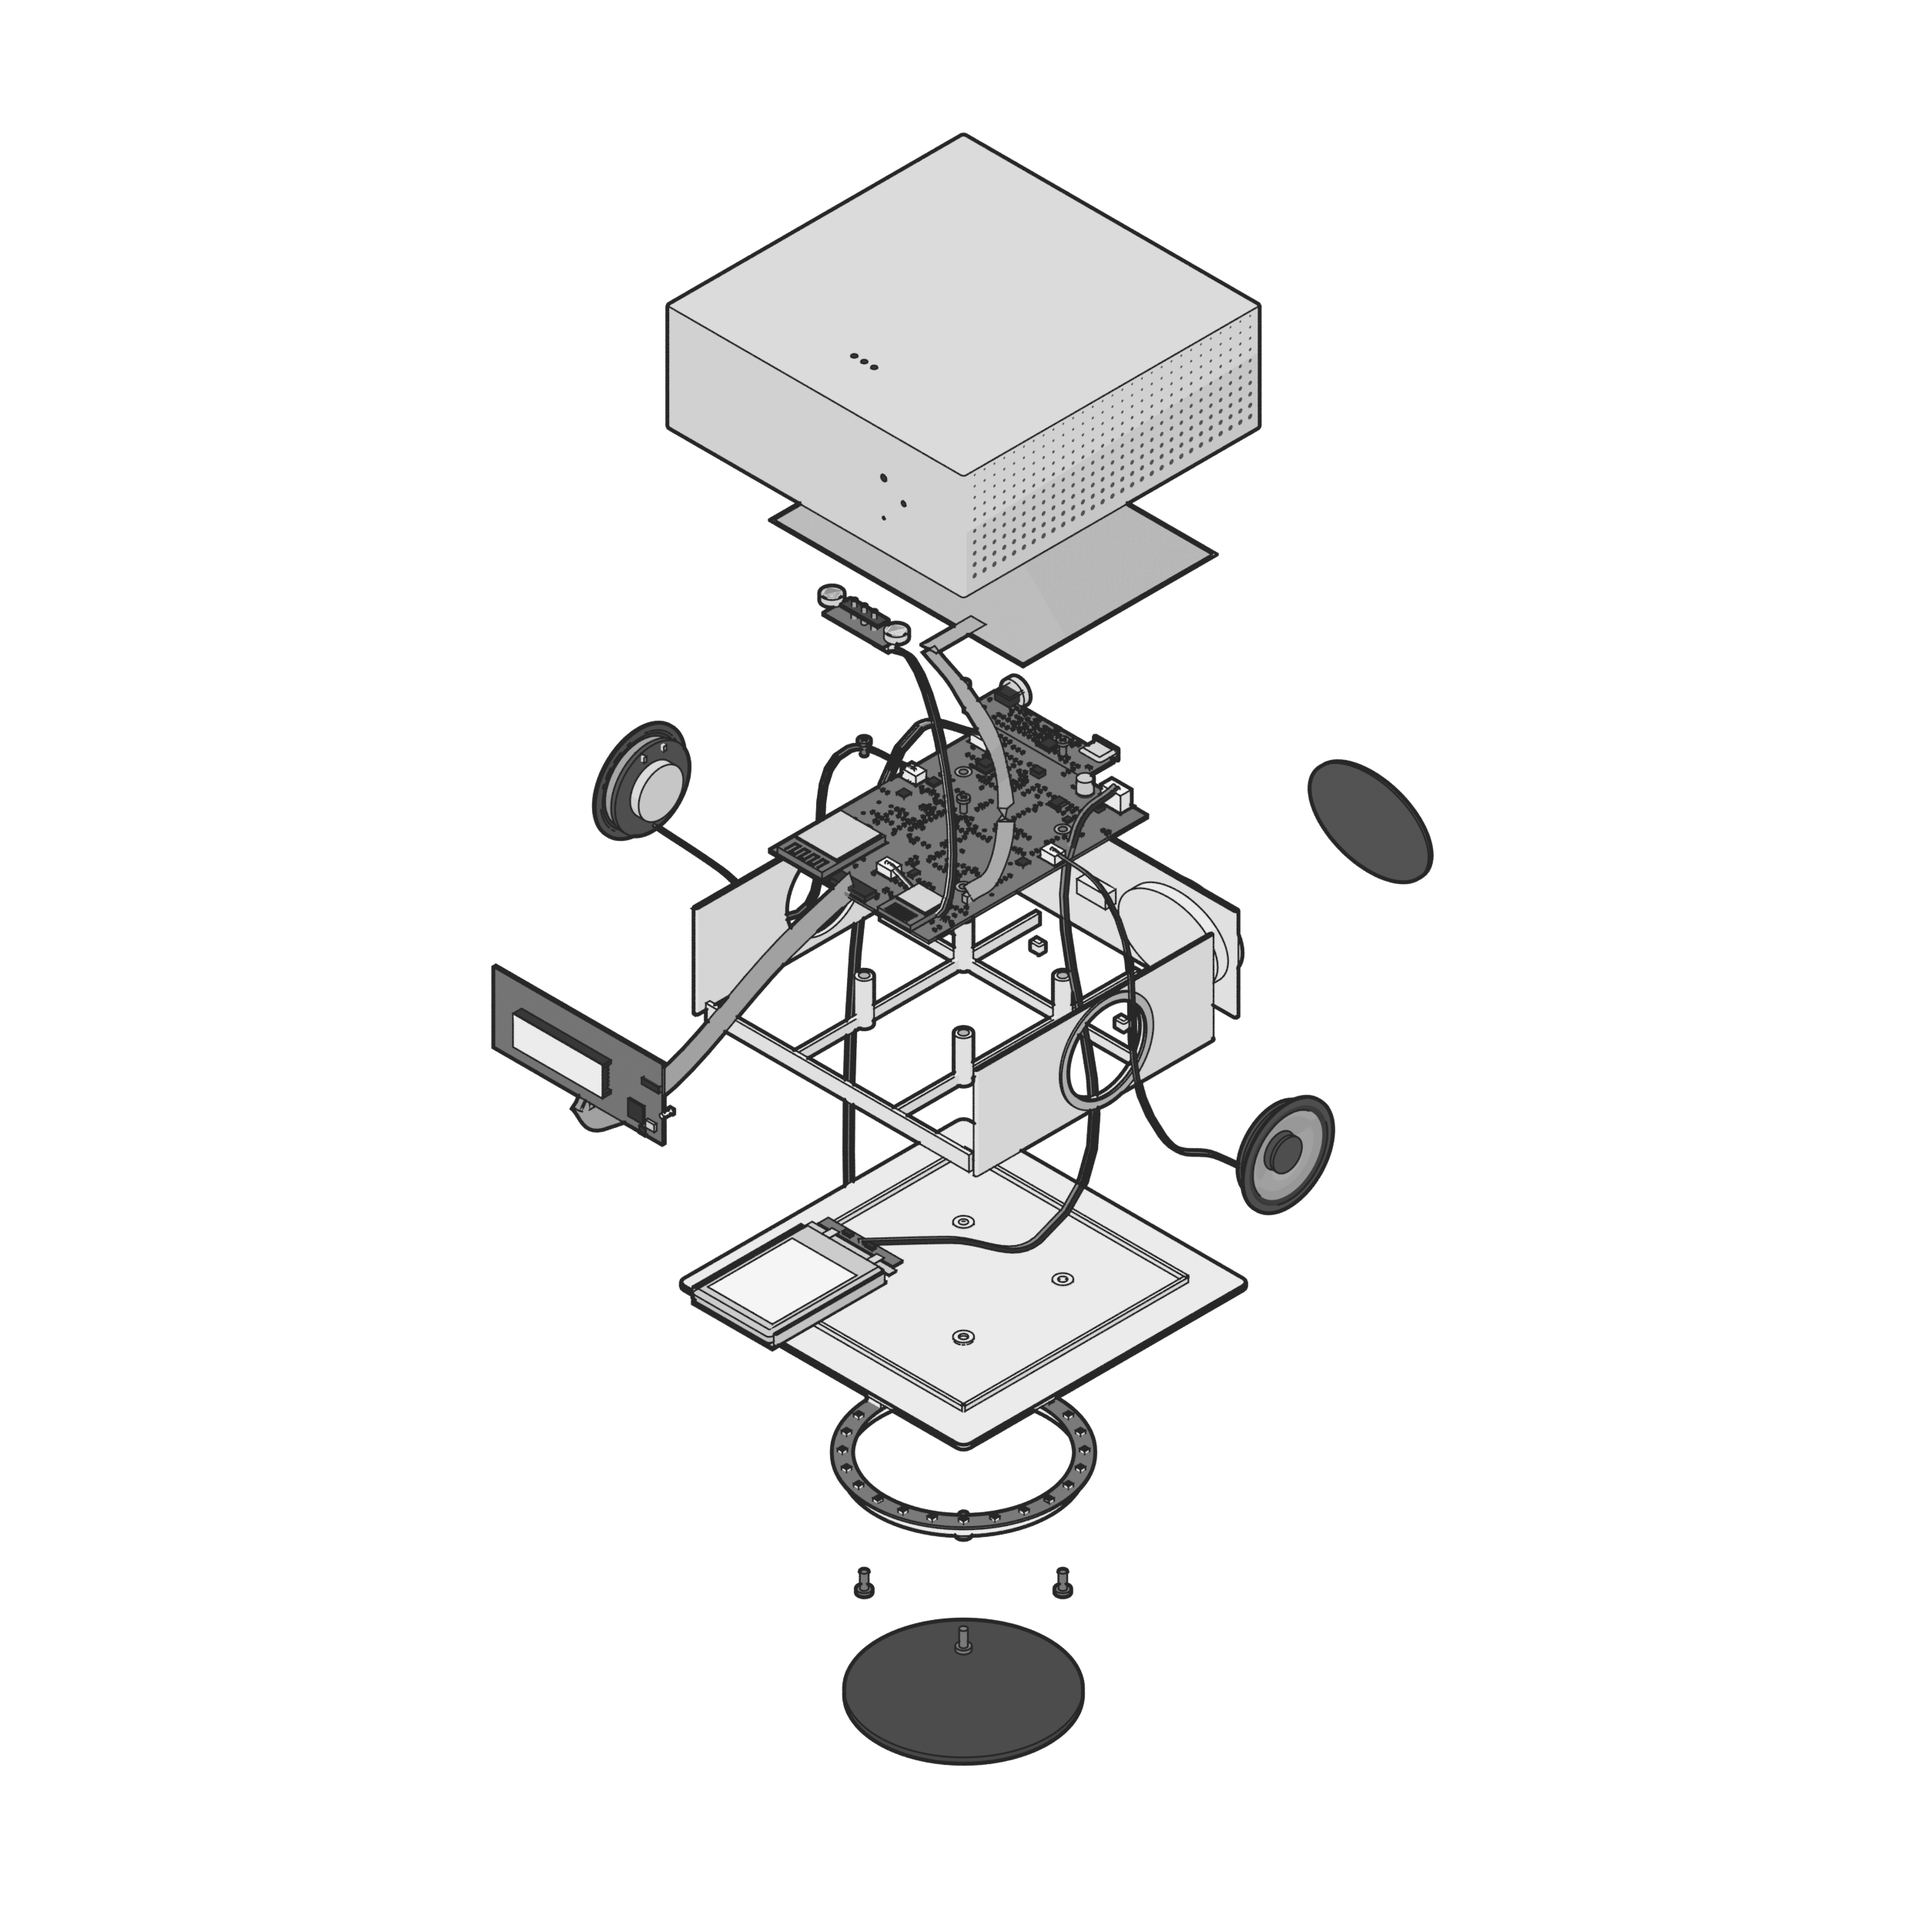
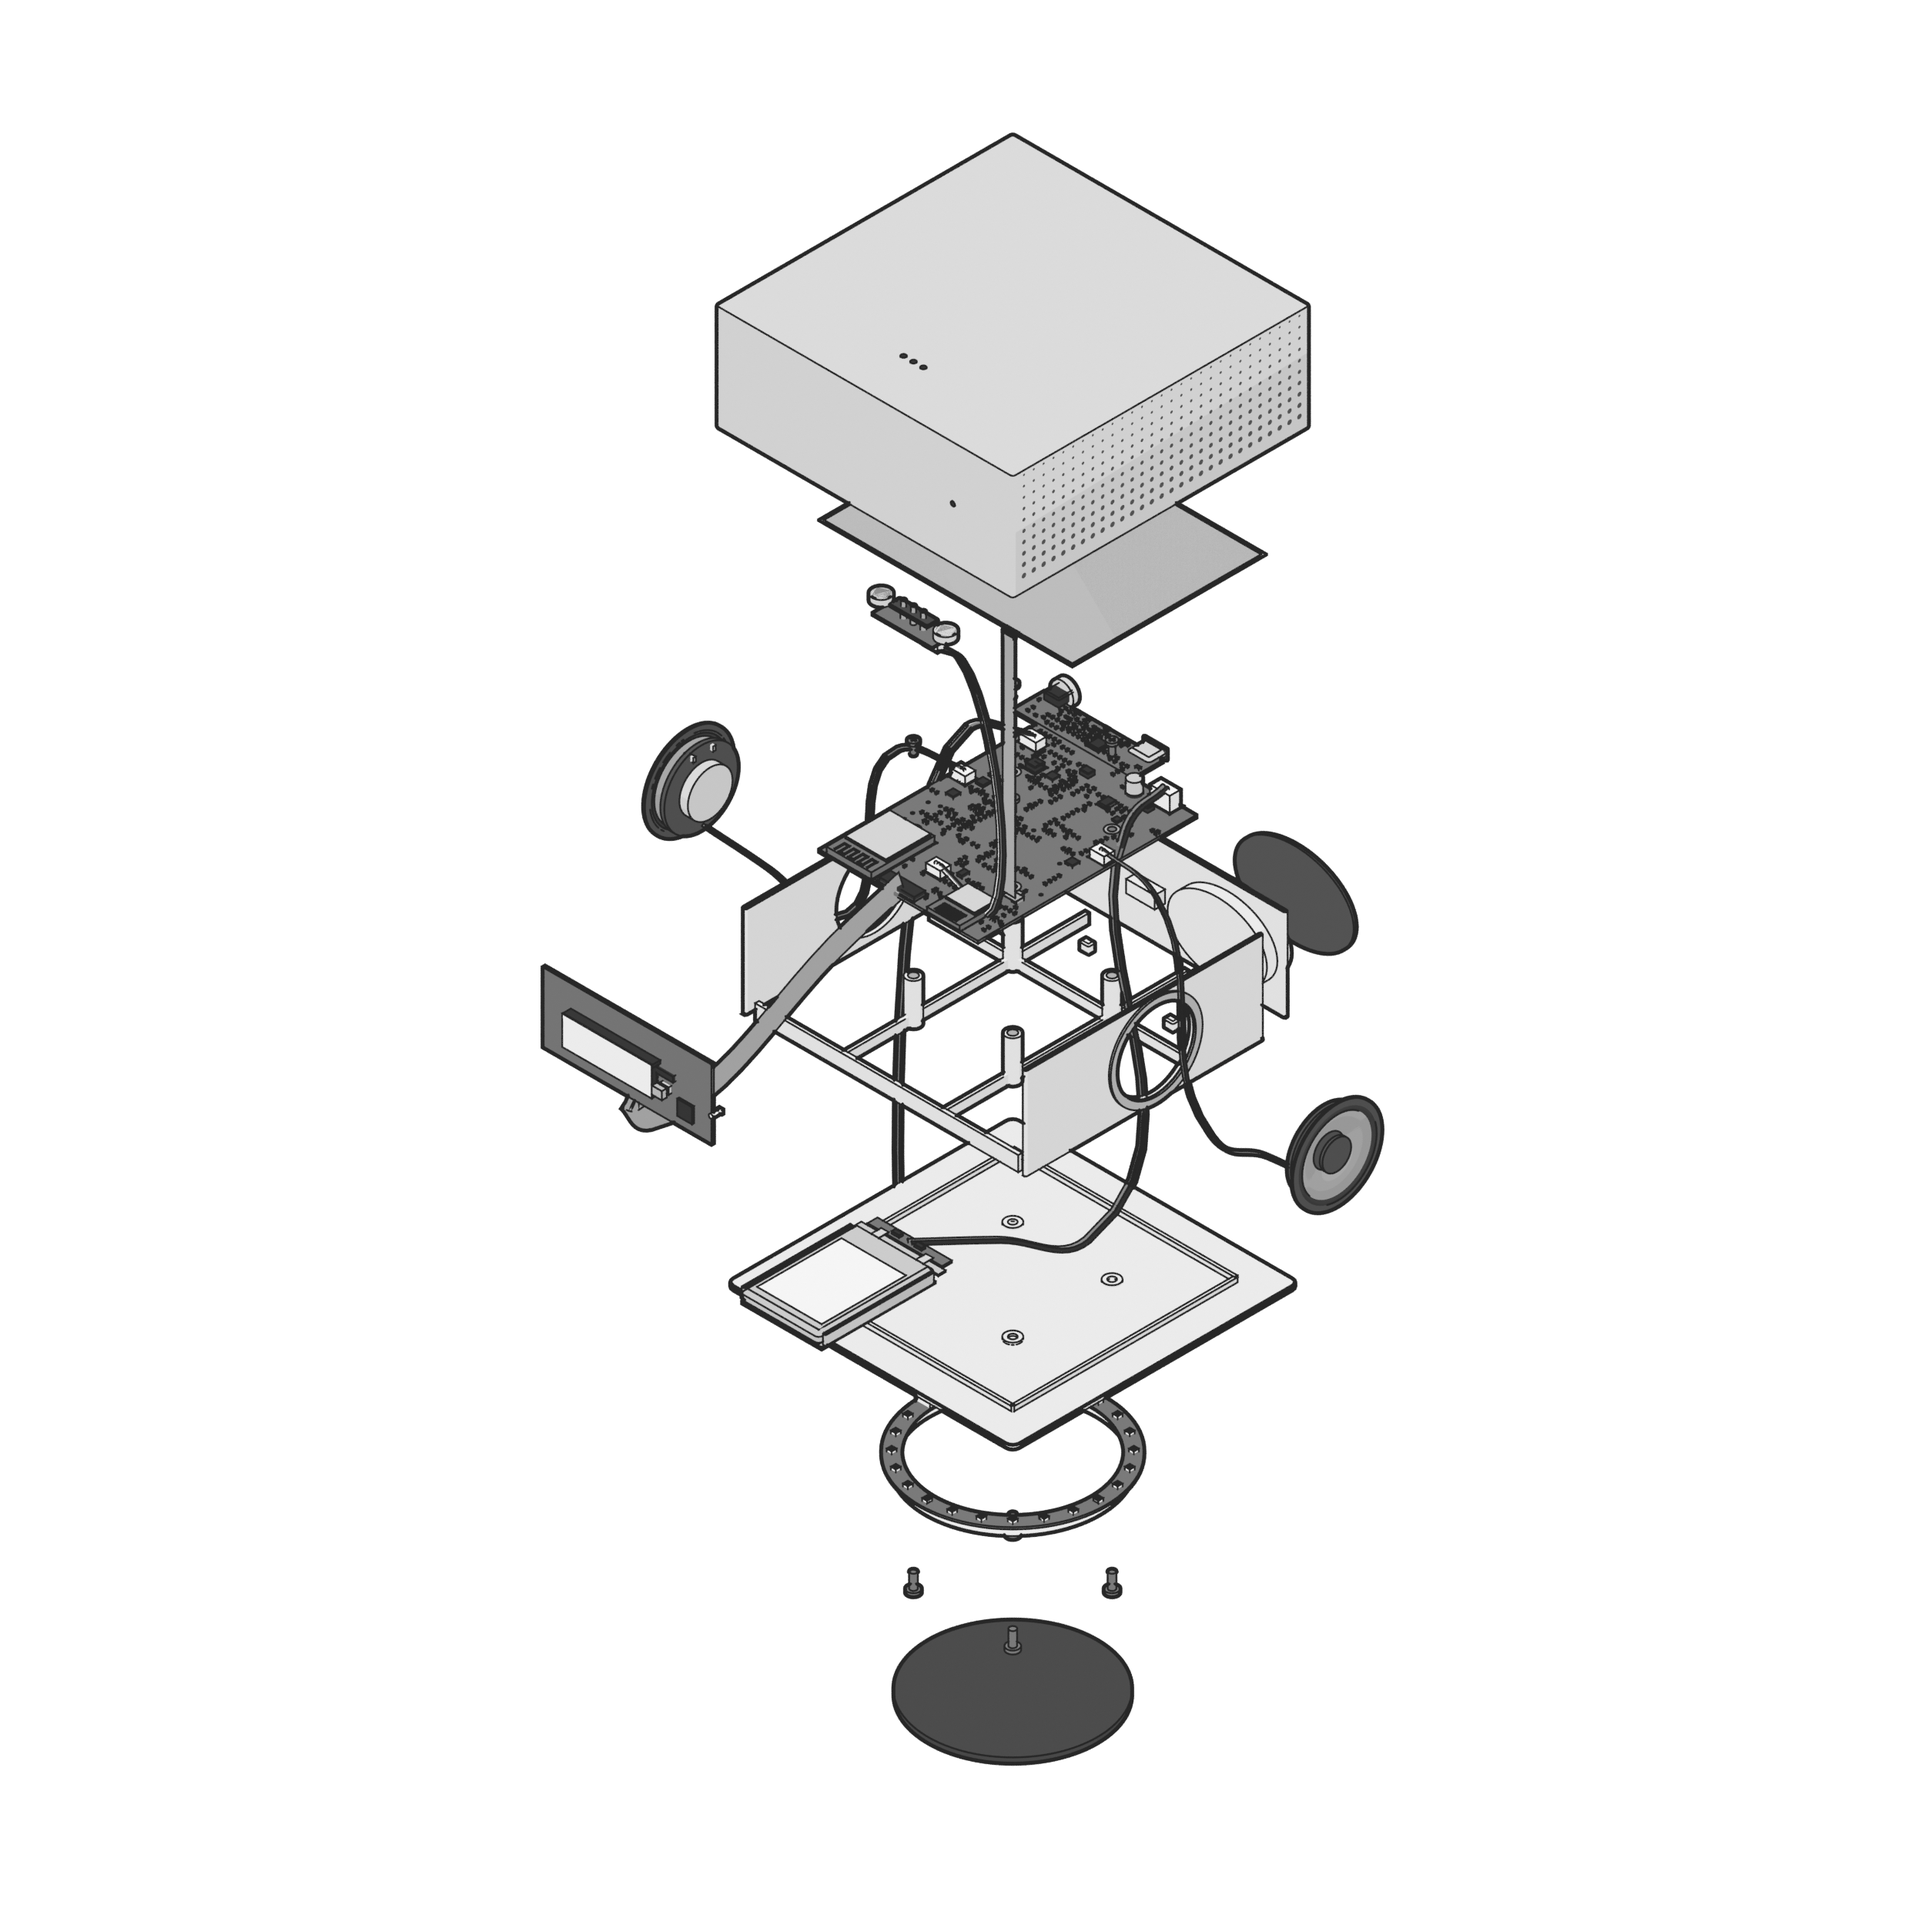
Deck: AuraWake exploded view: radiator by its baffle, LED-only front, real flex tail for the touch electrode

Changed region(s): [[0.2496, 0.0624, 0.7488, 0.936], [0.3432, 0.0936, 0.468, 0.2496]]

diff --git a/deck/index.html b/deck/index.html
@@ -1157,7 +1157,7 @@
   // AuraWake · inside (spec §8.2): the exploded drawing (aura.py line explode, internals.py) with 16 numbered parts.
   const ex = document.querySelector('[data-explode]');
   if (ex) {
-    const PT = {"shell": [500.5, 158.3], "pins": [449.0, 314.6], "magnets": [465.7, 327.3], "touch": [589.0, 281.6], "matrix": [280.4, 543.2], "status": [343.7, 580.0], "s3": [435.7, 433.7], "h2": [478.9, 466.5], "usbc": [570.2, 388.9], "btn": [527.7, 352.6], "spk": [668.9, 600.0], "pr": [715.4, 425.0], "chassis": [543.3, 534.7], "batt": [397.5, 670.7], "plate": [500.5, 717.3], "ring": [532.2, 773.3], "disc": [474.2, 892.3]};
+    const PT = {"shell": [526.1, 158.3], "pins": [474.5, 314.6], "magnets": [491.3, 327.3], "touch": [614.6, 281.6], "matrix": [306.0, 543.2], "status": [369.3, 580.0], "s3": [461.3, 433.7], "h2": [504.5, 466.5], "usbc": [595.7, 388.9], "btn": [553.2, 352.6], "spk": [694.4, 600.0], "pr": [676.5, 462.2], "chassis": [568.9, 534.7], "batt": [423.1, 670.7], "plate": [526.1, 717.3], "ring": [557.8, 773.3], "disc": [499.8, 892.3]};
     const PARTS = [
       ['shell', 'Shell', 'PC/ABS satin, 2 mm; grilles and micro-holes', 'r'],
       ['touch', 'Touch electrode', 'copper on polyimide, read by the ESP32-S3', 'r'],
@@ -1192,7 +1192,7 @@
   // out/xreal/explode-real.json, the same parts and numbers as the line drawing).
   const exr = document.querySelector('[data-explode-real]');
   if (exr) {
-    const PT = {"shell": [830.7, 161.6], "pins": [711.3, 542.2], "magnets": [748.6, 568.8], "touch": [1022.9, 482.8], "matrix": [327.8, 1058.7], "status": [457.6, 1152.0], "s3": [692.0, 818.3], "h2": [780.3, 887.2], "usbc": [966.2, 733.0], "btn": [880.7, 664.5], "spk": [1190.2, 1179.8], "pr": [1230.0, 811.0], "chassis": [916.5, 1033.1], "batt": [618.3, 1293.9], "plate": [823.5, 1373.3], "ring": [880.8, 1445.5], "disc": [776.6, 1622.9]};
+    const PT = {"shell": [830.7, 161.6], "pins": [711.3, 542.2], "magnets": [748.6, 568.8], "touch": [1022.9, 482.8], "matrix": [327.8, 1058.7], "status": [457.6, 1152.0], "s3": [692.0, 818.3], "h2": [780.3, 887.2], "usbc": [966.2, 733.0], "btn": [880.7, 664.5], "spk": [1190.2, 1179.8], "pr": [1116.9, 880.2], "chassis": [916.5, 1033.1], "batt": [618.3, 1293.9], "plate": [823.5, 1373.3], "ring": [880.8, 1445.5], "disc": [776.6, 1622.9]};
     const ORDER = [['shell', 'r'], ['touch', 'r'], ['pins', 'l'], ['magnets', 'l'], ['s3', 'l'], ['h2', 'r'], ['usbc', 'r'], ['btn', 'r'],
       ['matrix', 'l'], ['status', 'l'], ['spk', 'r', 'pr'], ['chassis', 'r'], ['batt', 'l'], ['plate', 'r'], ['ring', 'r'], ['disc', 'l']];
     let g = `<image href="assets/aurawake/explode-real.jpg" x="0" y="0" width="1600" height="2000" />`;

diff --git a/deck/blender/internals.py b/deck/blender/internals.py
@@ -83,6 +83,19 @@ def flex(name, pts, width, mat='kapton'):
     for bp, p in zip(sp.bezier_points, pts): bp.co = p; bp.handle_left_type = bp.handle_right_type = 'AUTO'
     ob = bpy.data.objects.new(name, cu); col.objects.link(ob); cu.materials.append(M(mat)); return ob
 
+def tail_flex(name, x, y, z_top, z_bot, w=0.005, t=0.00012, rb=0.0015):
+    """The electrode's tail: flat, w wide along x, hanging straight down from z_top to z_bot at (x, y), with a
+    rounded 90° bend into the electrode at the top and a short foot onto the spring contact at the bottom."""
+    bm = bmesh.new()
+    add_box(bm, x, y + rb + 0.004, z_top - t, w, 0.008, t)                              # under the electrode, out past its edge
+    for k in range(6):                                                                  # the bend, in 6 steps
+        a0, a1 = math.pi / 2 * k / 6, math.pi / 2 * (k + 1) / 6
+        yy = y + rb - rb * math.sin((a0 + a1) / 2); zz = z_top - rb + rb * math.cos((a0 + a1) / 2)
+        add_box(bm, x, yy, zz - t / 2, w, max(t, rb * (math.sin(a1) - math.sin(a0))) + t, max(t, rb * (math.cos(a0) - math.cos(a1))) + t)
+    add_box(bm, x, y, z_bot + 0.0015, w, t, z_top - rb - z_bot - 0.0015)                 # the straight drop
+    add_box(bm, x, y + 0.00175, z_bot, w, 0.0035, t)                                     # the foot onto the spring
+    return link(name, bm, 'kapton', smooth=False)
+
 def screw(name, x, y, z, r, length, mat='screw', up=True):
     """Pan-head Phillips screw: head on top (up) or below, a cross recess, the thread as a plain shank."""
     s = 1 if up else -1; obs = []
@@ -144,7 +157,7 @@ def passives(prefix, sc, z, seeds, n_fill, rng):
 # the parts
 def shell():
     part('shell', 'Enclosure: top and four walls in one piece', 'PC/ABS, satin, 2.0 mm walls',
-         'grilles left, right and back; 3 pin holes on top; front: micro-holes for the time, LED, light sensor, mic')
+         'grilles left, right and back; 3 pin holes on top; front: only the LED hole, the time window of laser micro-holes (light sensor and mic behind it)')
     outer = rbox('shell', W, W, H, EDGE_P, EDGE_T, 'body', (0, 0, PL), sp=4, se=2)
     if MODE == 'real':                                   # the same openings as the finished base
         cut(outer, stadium_bm(0.0084, 0.0026, 0.012), (0, W / 2, MID), 'rubber')
@@ -153,9 +166,7 @@ def shell():
     cutter = rbox('shell_in', IN, IN, H - WALL + 0.001, 0.001, 0.0, 'body', (0, 0, PL - 0.001), sp=2)
     boolean_diff(outer, cutter); holes_line = []
     for name, x, y, z, r, ax in (('ph0', -0.004, PIN_Y, TOP - 0.001, 0.00095, 'Z'), ('ph1', 0.0, PIN_Y, TOP - 0.001, 0.00095, 'Z'),
-                                 ('ph2', 0.004, PIN_Y, TOP - 0.001, 0.00095, 'Z'), ('led_h', 0.036, -W / 2 + 0.001, MID, 0.00085, 'Y'),
-                                 ('als_h', 0.028, -W / 2 + 0.001, MID + 0.005, 0.0011, 'Y'),
-                                 ('mic_h', 0.028, -W / 2 + 0.001, MID - 0.009, 0.00045, 'Y')):
+                                 ('ph2', 0.004, PIN_Y, TOP - 0.001, 0.00095, 'Z'), ('led_h', 0.036, -W / 2 + 0.001, MID, 0.00085, 'Y')):
         if LINE:                                         # the drawing: a dark disc reads as the hole, no boolean seams
             d = cyl(name, r, 0.0002, 'chip', (x, y, TOP + 0.00005) if ax == 'Z' else (x, -W / 2 - 0.00005, z), axis=ax, seg=32)
             holes_line.append(d)
@@ -173,7 +184,6 @@ def top_inside():
     obs = []
     obs.append(box('kapton_sheet', 0.102, 0.078, 0.00008, 0, 0.012, CEIL - 0.00018, 'kapton'))
     obs.append(box('electrode', 0.100, 0.076, 0.00004, 0, 0.012, CEIL - 0.0001 - 0.00004, 'copper'))
-    obs.append(box('electrode_tail', 0.006, 0.020, 0.00012, 0.026, -0.030, CEIL - 0.0002, 'kapton'))
     obs.append(box('pin_board', 0.024, 0.009, 0.0008, 0, PIN_Y, CEIL - 0.0050, 'pcb'))
     obs.append(box('pin_jst', 0.0058, 0.0035, 0.0029, 0.0085, PIN_Y, CEIL - 0.0050 - 0.0029, 'jst'))
     obs.append(box('gasket', 0.016, 0.005, 0.0012, 0, PIN_Y, CEIL - 0.0012, 'rubber', 0.001))
@@ -190,8 +200,8 @@ def display():
     part('matrix', 'Time display: 0402 warm-white LEDs on a 1.33 mm grid', '351 positions, driver Lumissil IS31FL3741 (I²C)',
          'black cell baffle + diffuser film, bonded behind ~0.1 mm laser micro-holes in a 0.5 mm thinned window of the front wall')
     part('status', 'Front status LED (day): RGB with a light pipe', 'Everlight 99-235 RGB + PC light pipe Ø1.7 mm', '')
-    part('als', 'Ambient light sensor', 'Vishay VEML7700 (I²C)', 'behind a Ø2.2 mm window')
-    part('mic', 'Microphone (snoring, noise; never recorded)', 'Knowles SPH0645LM4H, I²S MEMS', 'own port with acoustic mesh')
+    part('als', 'Ambient light sensor', 'Vishay VEML7700 (I²C)', 'behind the right end of the micro-hole window')
+    part('mic', 'Microphone (snoring, noise; never recorded)', 'Knowles SPH0645LM4H, I²S MEMS', 'behind the micro-hole window, sealed to it by a mesh gasket')
     y = -IN / 2 + 0.0004; obs = []                       # the front face of the stack touches the wall
     pb = y + 0.0042                                      # the board's front face
     obs.append(box('disp_pcb', 0.068, 0.0010, 0.028, -0.002, pb + 0.0005, MID - 0.014, 'pcb'))
@@ -214,9 +224,10 @@ def display():
     obs.append(box('drv', 0.006, 0.0008, 0.006, 0.022, pb - 0.0004, MID - 0.010, 'chip'))
     obs.append(cyl('lightpipe', 0.00085, 0.0040, 'pmma', (0.036, y + 0.0020, MID), axis='Y', seg=24))
     obs.append(box('rgb', 0.0016, 0.0006, 0.0016, 0.036, pb - 0.0003, MID - 0.0008, 'led'))
-    obs.append(box('als_chip', 0.0068, 0.0009, 0.0021, 0.028, pb - 0.00045, MID + 0.005 - 0.001, 'chip'))
-    obs.append(box('mic_chip', 0.0035, 0.0010, 0.0026, 0.028, pb - 0.0005, MID - 0.009 - 0.0013, 'shield'))
-    obs.append(box('mic_mesh', 0.0024, 0.0003, 0.0024, 0.028, y + 0.0003, MID - 0.0102, 'chip'))
+    xs = x0 + gw / 2 + 0.0035                            # right of the matrix, still behind the micro-hole window
+    obs.append(box('als_chip', 0.0068, 0.0009, 0.0021, xs, pb - 0.00045, MID + 0.0008, 'chip'))
+    obs.append(box('mic_chip', 0.0035, 0.0010, 0.0026, xs, pb - 0.0005, MID - 0.0042, 'shield'))
+    obs.append(box('mic_mesh', 0.0040, 0.0020, 0.0032, xs, y + 0.0012, MID - 0.0045, 'foam'))
     obs.append(flex('fpc_disp', [(-0.002, pb + 0.001, MID - 0.013), (-0.002, pb + 0.006, MID - 0.016), (-0.002, -0.046, ZT + 0.0012)], 0.010))
     return obs
 
@@ -426,7 +437,7 @@ def shift(obs, dx=0.0, dy=0.0, dz=0.0):
 
 EXPLODE = {   # group → (dx, dy, dz) in the exploded drawing
     'bottom_disc': (0, 0, -0.140), 'bottom_screws': (0, 0, -0.105), 'bottom_ring': (0, 0, -0.060), 'bottom_plate': (0, 0, 0),
-    'battery': (0, -0.080, 0.030), 'chassis': (0, 0, 0.090), 'drivers': (0.075, 0, 0.090), 'radiator': (0, 0.080, 0.090),
+    'battery': (0, -0.080, 0.030), 'chassis': (0, 0, 0.090), 'drivers': (0.075, 0, 0.090), 'radiator': (0, 0.030, 0.090),
     'board': (0, 0, 0.140), 'board_screws': (0, 0, 0.170), 'display': (0, -0.100, 0.135), 'top': (0, 0, 0.215), 'shell': (0, 0, 0.300),
 }
 
@@ -455,9 +466,7 @@ def build_exploded():
     cab += wires('batt_w', sag(off('battery', (0.0, 0.0385, FLOOR + 0.0045)), off('board', (0.022, 0.0395, ZT + 0.006)), 0.004, (0.02, 0.0)), ['wire_r', 'wire_k'], gap=0.0016, r=0.0006)
     cab += wires('ring_w', sag(off('bottom_ring', (-0.0345, 0.0, FLOOR + 0.0035)), off('board', (-0.026, 0.034, ZT + 0.003)), 0.004, (-0.03, 0.0)), ['wire_w', 'wire_r', 'wire_k'])
     cab += wires('pins_w', sag(off('top', (0.0085, PIN_Y, CEIL - 0.0080)), off('board', (0.0, -0.030, ZT + 0.003)), 0.004, (0.02, 0.0)), ['wire_w', 'wire_r', 'wire_k'])
-    tail = off('top', (0.026, -0.040, CEIL - 0.0002)); spring = off('board', (0.026, -0.024, ZT + 0.0025))
-    edge = (0.040, -0.024, (tail[2] + spring[2]) / 2)                # down past the board's right edge, then in
-    cab.append(flex('touch_flex', [tail, (0.036, tail[1] + 0.004, tail[2] - 0.012), edge, (0.036, spring[1], spring[2] + 0.012), spring], 0.005))
+    cab.append(tail_flex('touch_flex', 0.026, -0.0275, off('top', (0, 0, CEIL - 0.0002))[2], off('board', (0, 0, ZT + 0.0025))[2]))
     d0 = off('display', (-0.002, -IN / 2 + 0.006, MID - 0.014)); d1 = off('board', (-0.002, -0.0425, ZT + 0.0012))
     cab.append(flex('disp_flex', [d0, (d0[0], d0[1] + 0.01, d0[2] - 0.012), (d1[0], d1[1] - 0.02, d1[2] - 0.006), d1], 0.010))
     groups['cables'] = cab

diff --git a/HANDOFF.md b/HANDOFF.md
@@ -244,6 +244,11 @@ stay clickable in the PDF. Contact sheet for review: resize the previews with sh
 3. Real photos for the Selected projects index and, if wanted, the covers (objects, contexts, devices: not only phones).
 4. Closing slide (contact, thank you) — not built yet. Final check: size < 20 MB, file name, links, typos.
 5. Optional: propose a concrete small physical prototype (Arduino/ESP32) tied to one project.
+6. **Critical points in every project (owner, 2026-10-30), to do:** add to each case study, in the PDF and on the
+   site, an honest "what did not work" part: problems found in tests (e.g. the Smart Home Hub usability test, the
+   JustCook pilot), weak decisions, limits of the design and what the owner would change. It must show self-criticism
+   and realism, not a list of excuses: one short block per project (finding → evidence → what changes), placed after
+   the test or in the reflection. Ask the owner for the real findings; never invent them.
 
 #### 0.B.0 JustCook (02, main) — 12 slides after its cover (owner, 2026-10-30)
 
